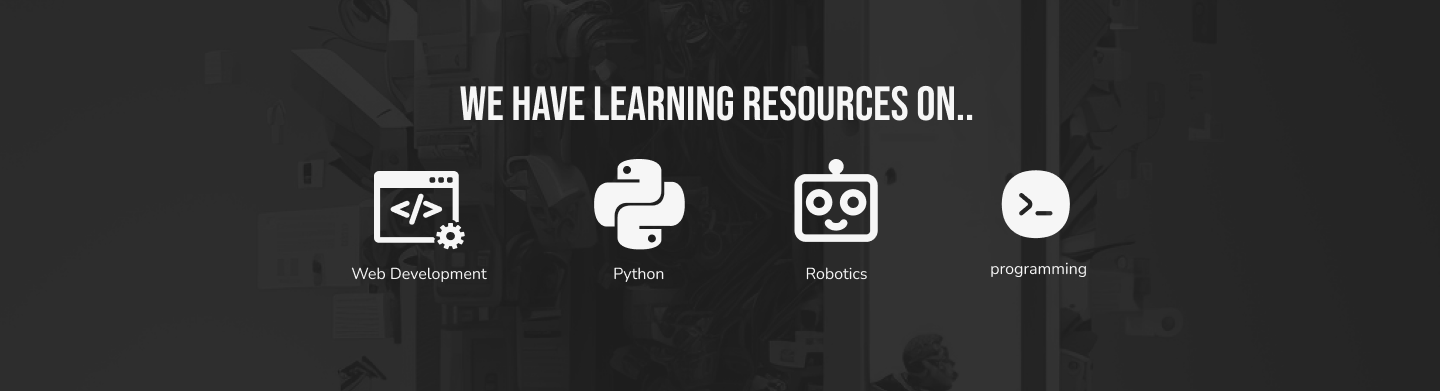
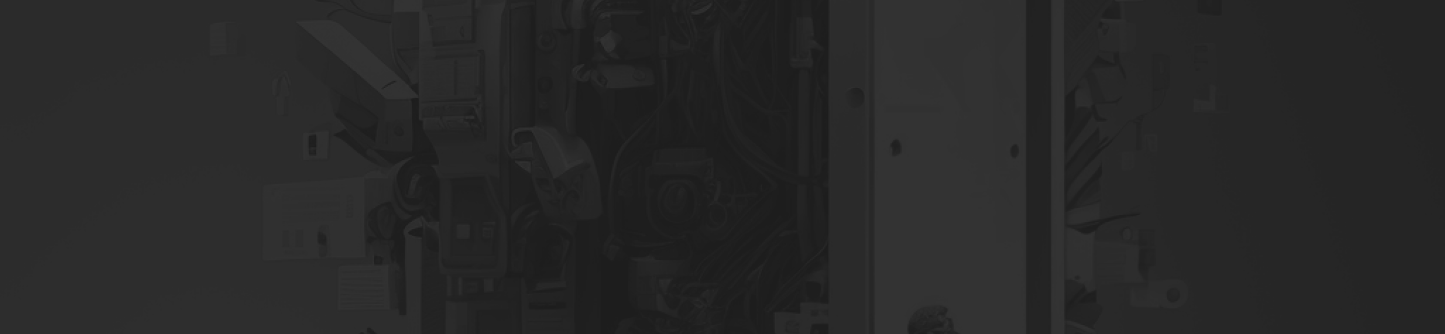
UI Tweaks

diff --git a/src/app/Components/BlogPostsCont.tsx b/src/app/Components/BlogPostsCont.tsx
@@ -5,6 +5,7 @@ import BlogPost from "./BlogPost";
 interface BlogPost {
   title: string;
   date: string;
+  imgURL: string;
 }
 
 const BlogPostsCont = () => {
@@ -12,38 +13,50 @@ const BlogPostsCont = () => {
     {
       title: "AMD Ryzen is G.O.A.T. I obviously use Ryzen 5700G",
       date: "18h ago",
+      imgURL:
+        "https://images.pexels.com/photos/39284/macbook-apple-imac-computer-39284.jpeg?auto=compress&cs=tinysrgb&w=1260&h=750&dpr=1",
     },
     {
       title: "AMD Ryzen is G.O.A.T. I obviously use Ryzen 5700G",
       date: "21h ago",
+      imgURL:
+        "https://images.pexels.com/photos/2582935/pexels-photo-2582935.jpeg?auto=compress&cs=tinysrgb&w=1260&h=750&dpr=1",
     },
     {
       title: "AMD Ryzen is G.O.A.T. I obviously use Ryzen 5700G",
       date: "25h ago",
+      imgURL:
+        "https://images.pexels.com/photos/3082341/pexels-photo-3082341.jpeg?auto=compress&cs=tinysrgb&w=1260&h=750&dpr=1",
     },
     {
       title: "AMD Ryzen is G.O.A.T. I obviously use Ryzen 5700G",
       date: "27h ago",
-    },
-    {
-      title: "AMD Ryzen is G.O.A.T. I obviously use Ryzen 5700G",
-      date: "30h ago",
-    },
-    {
-      title: "AMD Ryzen is G.O.A.T. I obviously use Ryzen 5700G",
-      date: "35h ago",
-    },
-    {
-      title: "AMD Ryzen is G.O.A.T. I obviously use Ryzen 5700G",
-      date: "55h ago",
-    },
-    {
-      title: "AMD Ryzen is G.O.A.T. I obviously use Ryzen 5700G",
-      date: "80h ago",
+      imgURL:
+        "https://images.pexels.com/photos/1310847/pexels-photo-1310847.jpeg?auto=compress&cs=tinysrgb&w=1260&h=750&dpr=1",
     },
     {
       title: "AMD Ryzen is G.O.A.T. I obviously use Ryzen 5700G",
       date: "18h ago",
+      imgURL:
+        "https://images.pexels.com/photos/39284/macbook-apple-imac-computer-39284.jpeg?auto=compress&cs=tinysrgb&w=1260&h=750&dpr=1",
+    },
+    {
+      title: "AMD Ryzen is G.O.A.T. I obviously use Ryzen 5700G",
+      date: "21h ago",
+      imgURL:
+        "https://images.pexels.com/photos/2582935/pexels-photo-2582935.jpeg?auto=compress&cs=tinysrgb&w=1260&h=750&dpr=1",
+    },
+    {
+      title: "AMD Ryzen is G.O.A.T. I obviously use Ryzen 5700G",
+      date: "25h ago",
+      imgURL:
+        "https://images.pexels.com/photos/3082341/pexels-photo-3082341.jpeg?auto=compress&cs=tinysrgb&w=1260&h=750&dpr=1",
+    },
+    {
+      title: "AMD Ryzen is G.O.A.T. I obviously use Ryzen 5700G",
+      date: "27h ago",
+      imgURL:
+        "https://images.pexels.com/photos/1310847/pexels-photo-1310847.jpeg?auto=compress&cs=tinysrgb&w=1260&h=750&dpr=1",
     },
   ];
   const scrollRef = useRef<HTMLDivElement>(null);
@@ -76,7 +89,15 @@ const BlogPostsCont = () => {
         className=" justify-center snap-scroller py-5"
       >
         {blogPosts.map((e, i) => {
-          return <BlogPost title={e.title} date={e.date} index={i} key={i} />;
+          return (
+            <BlogPost
+              title={e.title}
+              date={e.date}
+              index={i}
+              imageURL={e.imgURL}
+              key={i}
+            />
+          );
         })}
       </div>
       {scrollLeft !== 0 ? (

diff --git a/tailwind.config.ts b/tailwind.config.ts
@@ -1,41 +1,46 @@
-import type { Config } from 'tailwindcss';
-import plugin from 'tailwindcss/plugin';
+import { url } from "inspector";
+import type { Config } from "tailwindcss";
+import plugin from "tailwindcss/plugin";
 
 const config: Config = {
   content: [
-    './src/pages/**/*.{js,ts,jsx,tsx,mdx}',
-    './src/components/**/*.{js,ts,jsx,tsx,mdx}',
-    './src/app/**/*.{js,ts,jsx,tsx,mdx}',
+    "./src/pages/**/*.{js,ts,jsx,tsx,mdx}",
+    "./src/components/**/*.{js,ts,jsx,tsx,mdx}",
+    "./src/app/**/*.{js,ts,jsx,tsx,mdx}",
   ],
   theme: {
     extend: {
       backgroundImage: {
-        'gradient-radial': 'radial-gradient(var(--tw-gradient-stops))',
-        'gradient-conic': 'conic-gradient(from 180deg at 50% 50%, var(--tw-gradient-stops))',
+        "gradient-radial": "radial-gradient(var(--tw-gradient-stops))",
+        "gradient-conic":
+          "conic-gradient(from 180deg at 50% 50%, var(--tw-gradient-stops))",
+
+        sectorsBG: 'url("/Sectors.png")',
       },
       fontFamily: {
-        ShareTechTown: ['Share Tech Mono', 'Mono'],
-        Roboto: ['Roboto', 'sans-serif'],
-        Bebas: ['Bebas Neue', 'sans - serif'],
-        Nunito: ['Nunito', 'sans-serif'],
+        ShareTechTown: ["Share Tech Mono", "Mono"],
+        Roboto: ["Roboto", "sans-serif"],
+        Bebas: ["Bebas Neue", "sans - serif"],
+        Nunito: ["Nunito", "sans-serif"],
       },
     },
   },
   plugins: [
-    require('tailwind-gradient-mask-image'),
+    require("tailwind-gradient-mask-image"),
     plugin(({ matchUtilities, theme }) => {
       matchUtilities({
         // Class name
-        'grid-fluid-fit': (value) => {
+        "grid-fluid-fit": (value) => {
           return {
-            gridTemplateColumns: 'repeat(auto-fit, minmax(' + value + ', 1fr))', // Desired CSS properties here
-            display: 'grid', // Just for example non-dynamic value
+            gridTemplateColumns: "repeat(auto-fit, minmax(" + value + ", 1fr))", // Desired CSS properties here
+            display: "grid", // Just for example non-dynamic value
           };
         },
-        'grid-fluid-fill': (value) => {
+        "grid-fluid-fill": (value) => {
           return {
-            gridTemplateColumns: 'repeat(auto-fill, minmax(' + value + ', 1fr))', // Desired CSS properties here
-            display: 'grid', // Just for example non-dynamic value
+            gridTemplateColumns:
+              "repeat(auto-fill, minmax(" + value + ", 1fr))", // Desired CSS properties here
+            display: "grid", // Just for example non-dynamic value
           };
         },
       });

diff --git a/src/app/page.tsx b/src/app/page.tsx
@@ -45,36 +45,36 @@ export default function Home() {
         />
       </section>
 
-      <div className="w-screen h-fit mt-16 p-4 md:py-16 bg-black items-center flex gap-16 flex-wrap">
-        <div className="flex flex-col items-center gap-1 flex-1">
+      <div className="w-screen h-fit mt-16 p-4 md:py-16 items-center flex gap-16 flex-wrap bg-sectorsBG object-cover">
+        <div className="flex flex-col items-center gap-1 flex-1 transition-all hover:scale-125">
           <GiArtificialIntelligence className="w-16 h-16 text-white" />
           <h1 className="text-xl text-white text-center">
             Artificial Intelligence
           </h1>
         </div>
 
-        <div className="flex flex-col items-center gap-1 flex-1">
+        <div className="flex flex-col items-center gap-1 flex-1 transition-all hover:scale-125">
           <GiRobotGolem className="w-16 h-16 text-white" />
           <h1 className="text-xl text-white text-center">
             Hardwares & Robotics
           </h1>
         </div>
 
-        <div className="flex flex-col items-center gap-1 flex-1">
+        <div className="flex flex-col items-center gap-1 flex-1 transition-all hover:scale-125">
           <SiWebpack className="w-16 h-16 text-white" />
           <h1 className="text-xl text-white text-center">
             Website & Native App Development
           </h1>
         </div>
 
-        <div className="flex flex-col items-center gap-1 flex-1">
+        <div className="flex flex-col items-center gap-1 flex-1 transition-all hover:scale-125">
           <FaFileCode className="w-16 h-16 text-white" />
           <h1 className="text-xl text-white text-center">
             Competitive Programming
           </h1>
         </div>
 
-        <div className="flex flex-col items-center gap-1 flex-1">
+        <div className="flex flex-col items-center gap-1 flex-1 transition-all hover:scale-125">
           <FaPenNib className="w-16 h-16 text-white" />
           <h1 className="text-xl text-white text-center">
             Graphics Designing & Article

diff --git a/src/app/Components/BlogPost.tsx b/src/app/Components/BlogPost.tsx
@@ -1,16 +1,16 @@
-'use client';
+"use client";
 
-import { useInView } from 'framer-motion';
-import Image from 'next/image';
-import { useRef, useState } from 'react';
+import Image from "next/image";
+import { useRef, useState } from "react";
 
 interface Props {
   title: string;
   date: string;
   index: number;
+  imageURL: string;
 }
 
-const BlogPost = ({ title, date, index }: Props) => {
+const BlogPost = ({ title, date, index, imageURL }: Props) => {
   const ref = useRef(null);
   const [hover, setHover] = useState<boolean>(false);
 
@@ -24,26 +24,26 @@ const BlogPost = ({ title, date, index }: Props) => {
         setHover(false);
       }}
       ref={ref}
-      className={`bg-[#2E2E2E] shadow-lg  rounded-xl duration-1000 cursor-pointer`}
+      className={`bg-[#2E2E2E] shadow-lg h-96 rounded-xl duration-1000 cursor-pointer`}
     >
       <Image
-        src="/Ryzen.jpg"
-        alt={'Image'}
-        width={256}
-        height={256}
-        className="w-full object-cover aspect-video"
+        src={imageURL}
+        alt={"Image"}
+        width={512}
+        height={512}
+        className="w-full h-[60%] object-cover rounded-t-xl"
       />
-      <div className="p-3 flex flex-col gap-2">
+      <div className="p-3 flex-1 flex flex-col gap-2">
         <h1
           className={
-            'font-Roboto font-bold text-white  text-sm  w-[90%] break-words' +
-            ' ' +
-            (hover ? 'underline' : '')
+            "font-Roboto font-bold text-white  text-sm  w-[90%] break-words" +
+            " " +
+            (hover ? "underline" : "")
           }
         >
           {title}
         </h1>
-        <p className={'font-Roboto text-xs text-white font-light'}>{date}</p>
+        <p className={"font-Roboto text-xs text-white font-light"}>{date}</p>
       </div>
     </div>
   );

diff --git a/src/app/notifications/SingleNotification.tsx b/src/app/notifications/SingleNotification.tsx
@@ -14,8 +14,8 @@ const SingleNotification = ({
   return (
     <div className="hover:cursor-pointer w-full h-[7.9rem] md:h-[8.6rem] border border-gray-200 shadow-[5px_5px_30px_5px_#a0aec0] transition-all duration-500 hover:scale-110 rounded-xl flex justify-between">
       <div className="flex flex-col gap-1 flex-[6] mt-2 p-3">
-        <h1 className="text-lg md:text-2xl">{title}</h1>
-        <p className="text-sm md:text-base break-words max-w-[90%] line-clamp-2">
+        <h1 className="text-base md:text-2xl">{title}</h1>
+        <p className="text-sm md:text-base break-words max-w-[90%] line-clamp-1 md:line-clamp-2">
           {description}
         </p>
       </div>

diff --git a/src/app/Components/Contact.tsx b/src/app/Components/Contact.tsx
@@ -5,7 +5,7 @@ const Contact = () => {
     <div className="mt-36 flex flex-col items-center">
       <div className="w-screen flex flex-col mt-7 md:flex-row justify-center md:justify-between">
         <div className="flex-1 flex flex-col items-center md:items-start justify-center py-10 bg-zinc-200 md:ml-16">
-          <div className="flex flex-col md:flex-row gap-2 self-center mt-20">
+          <div className="flex flex-col md:flex-row gap-2">
             <h1 className="text-5xl mb-5 text-center md:text-left text-blue-500">
               GET IN TOUCH
             </h1>
